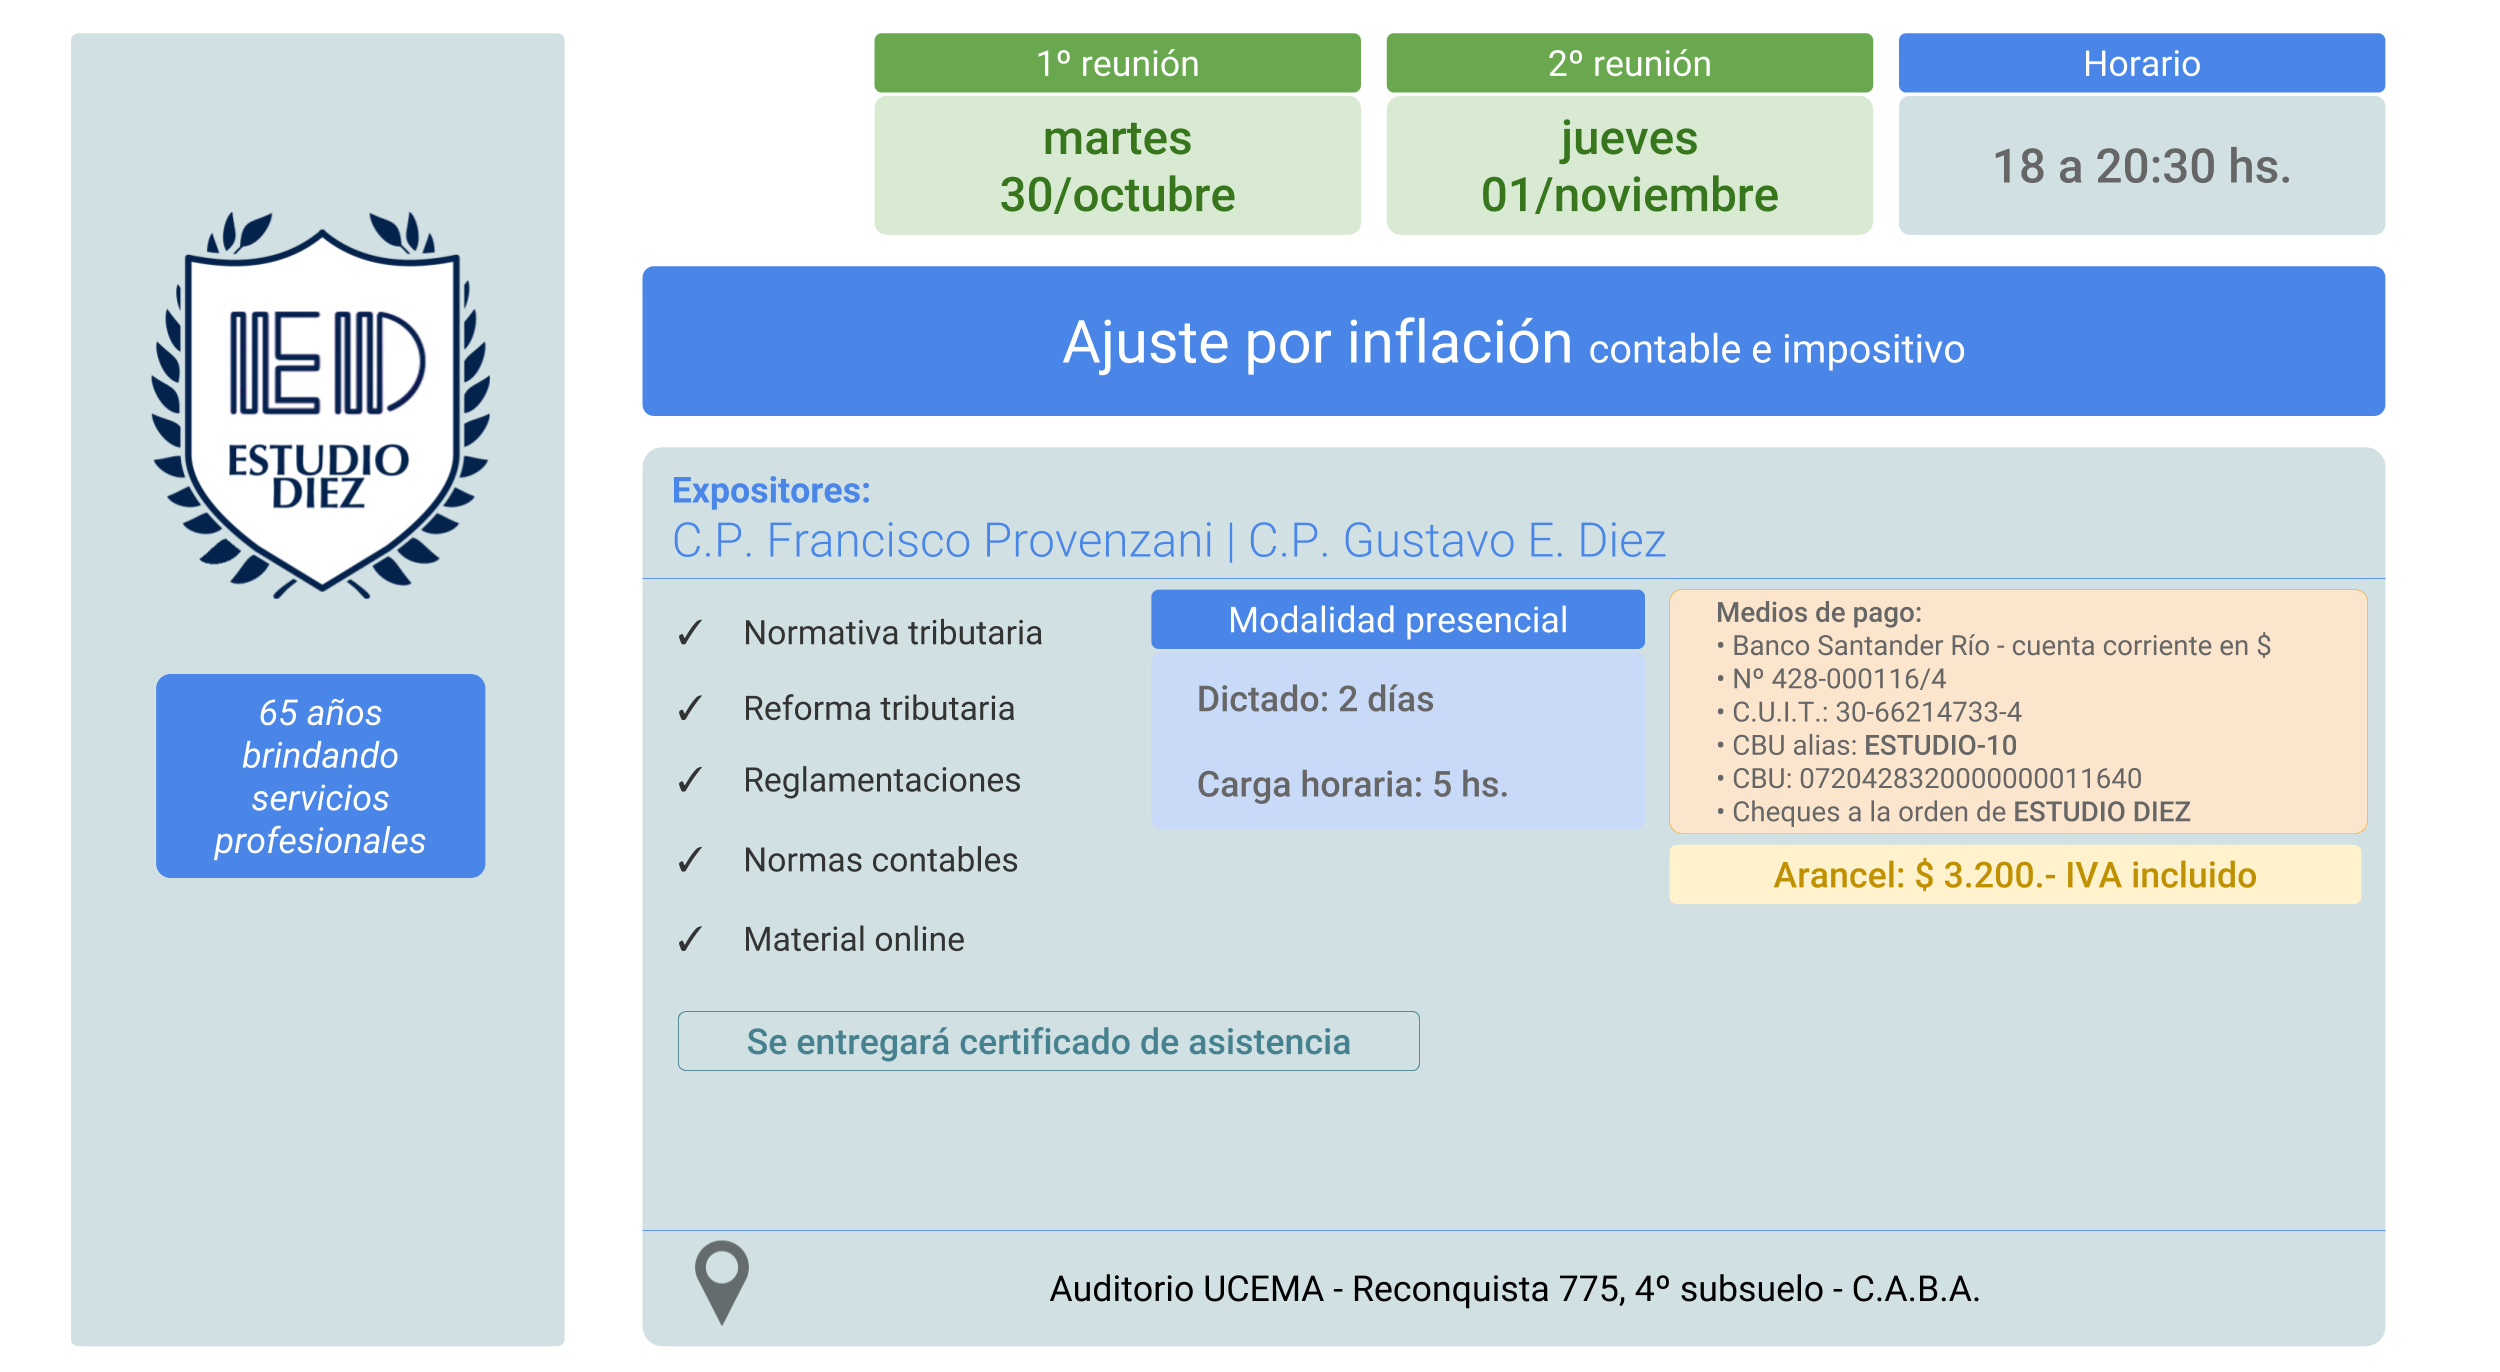
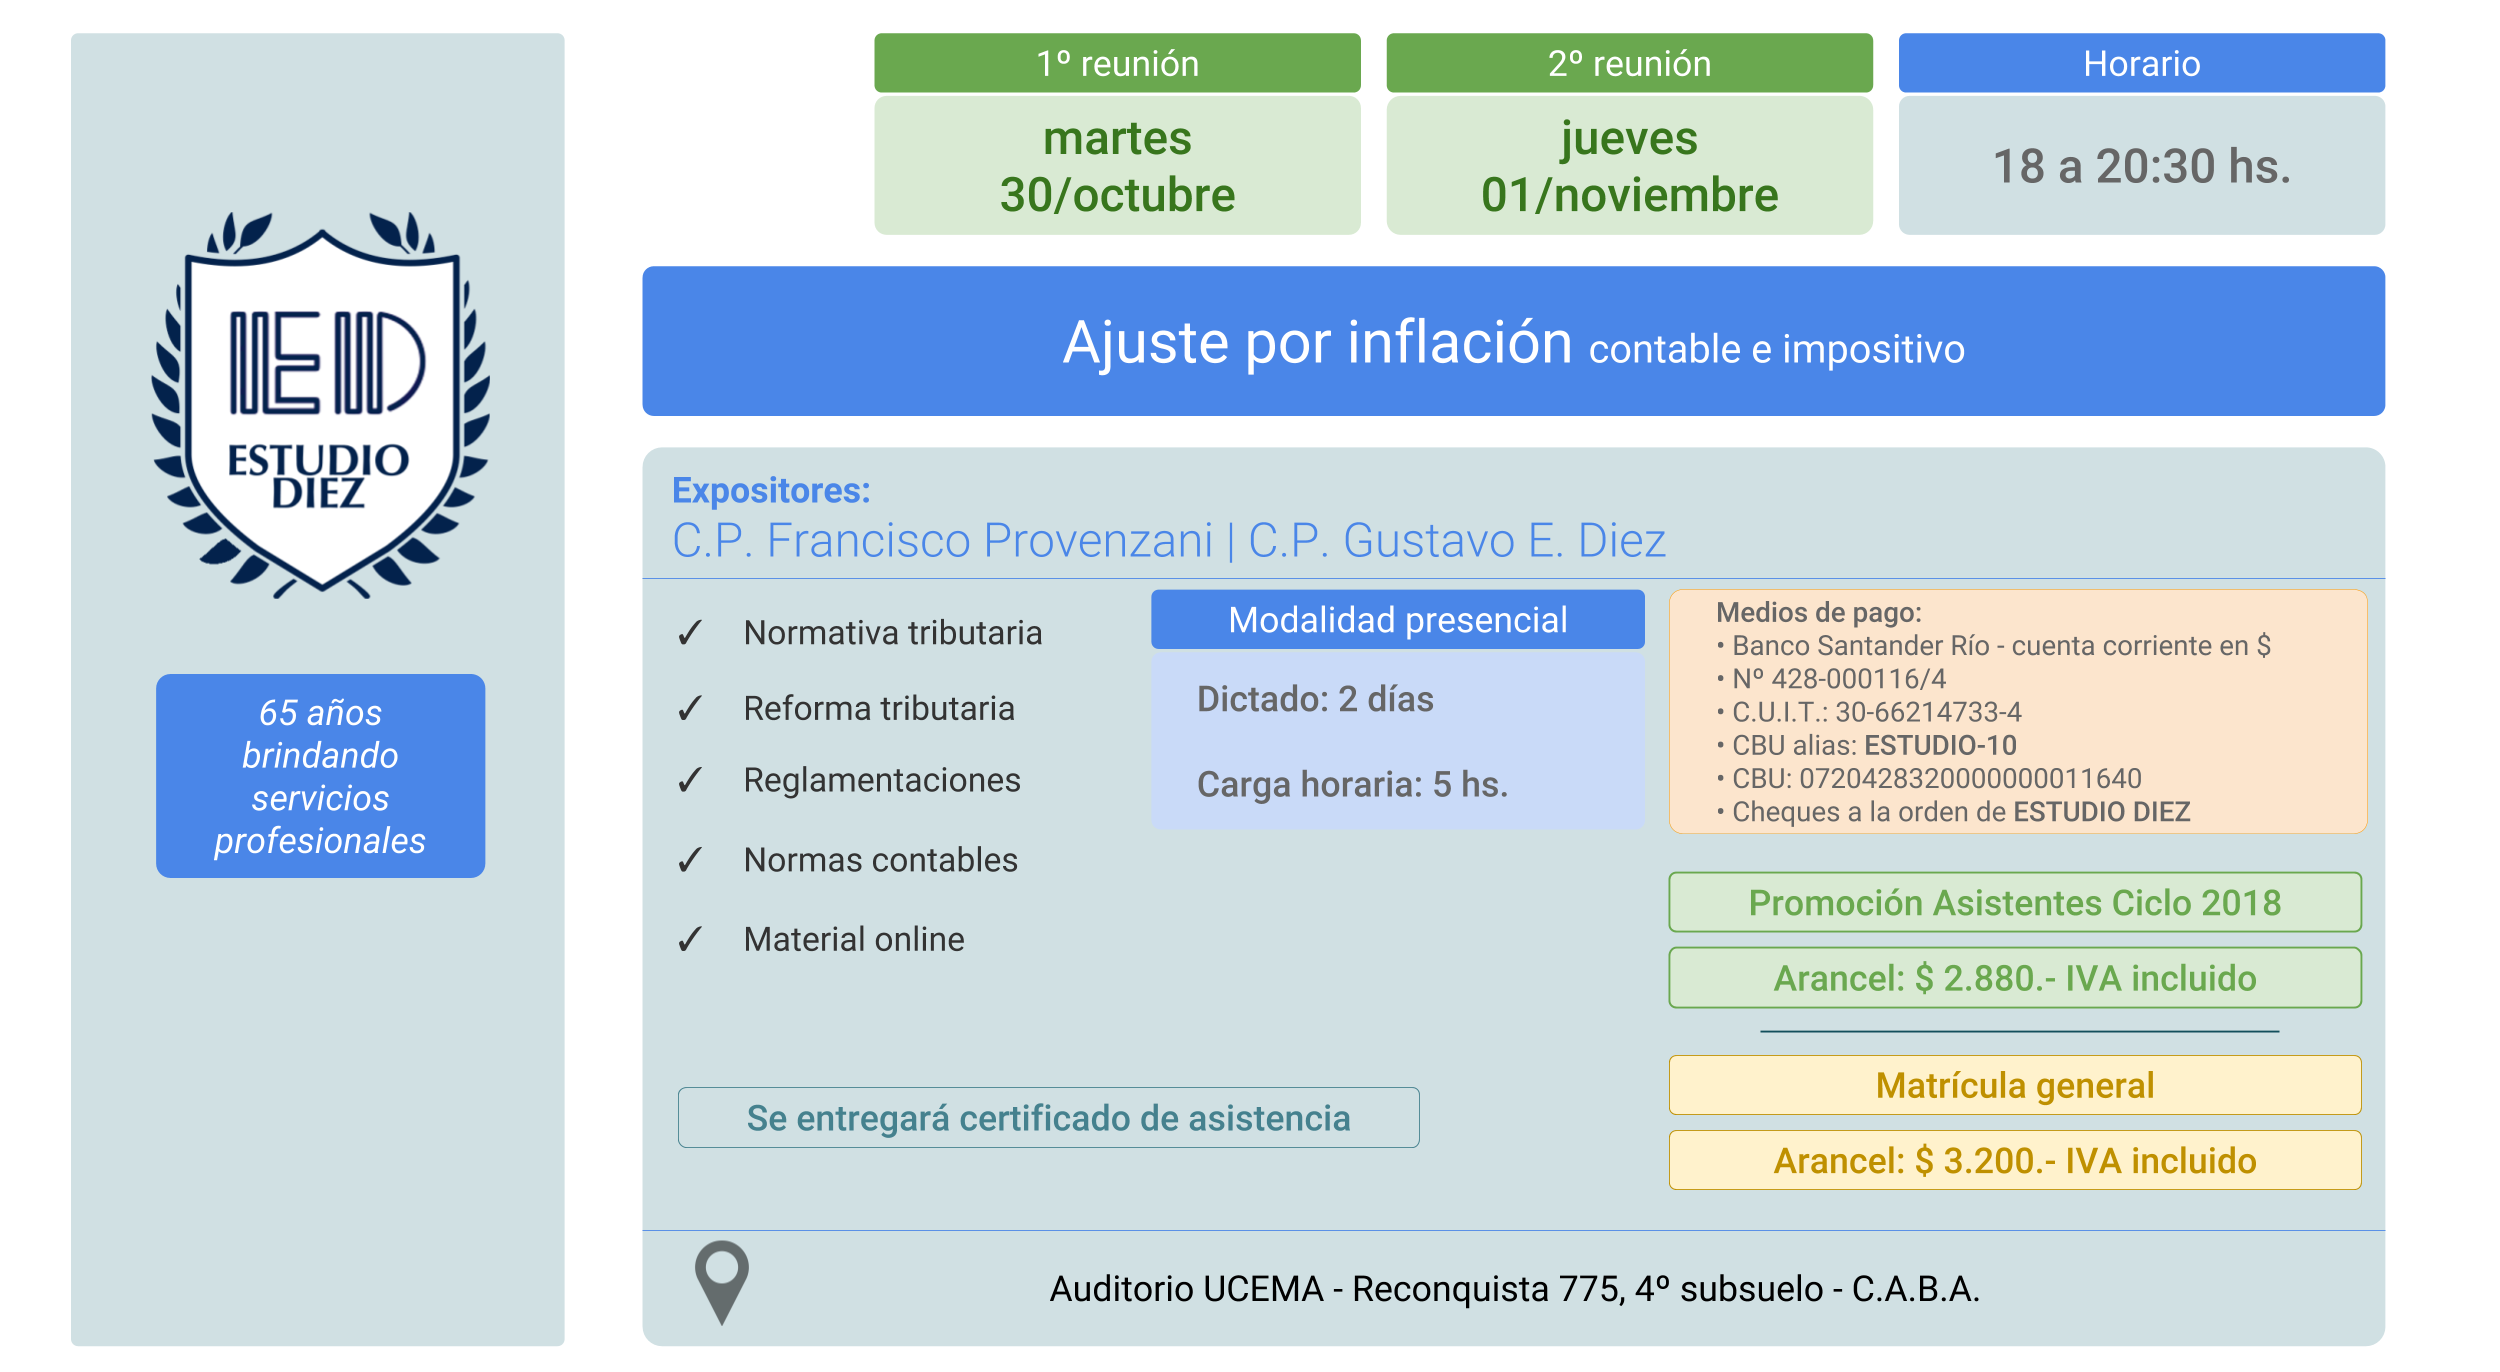
Add files via Github desktop

Changed region(s): [[0.6552, 0.7653, 0.9672, 0.8878], [0.6552, 0.6122, 0.9672, 0.7347], [0.2808, 0.7347, 0.5304, 0.8265]]

diff --git a/atencion-inspeccion.html b/atencion-inspeccion.html
@@ -180,28 +180,17 @@ La temática práctica abordará embargos, sanciones, régimen recursivo. En lo 
                 Modalidad presencial
             </div>
             <ul class="list-group">
-                          <li class="list-group-item list-group-item-info">Matrícula general</li>
-                          <li class="list-group-item">$ 2.420.- (IVA incluido)</li>
-                        </ul>
-            <hr>
-            <ul class="list-group">
               <li class="list-group-item list-group-item-success">Matrícula Promoción Asistentes Ciclo de Actualización Tributaria 2018<br>
                 <hr>
                   <small>Si sos asistente del Ciclo de Actualización Tributaria 2018, tenés la promoción</small>
               </li>
-              <li class="list-group-item"><i class="fa fa-check fa-fw" aria-hidden="true"></i> Promoción: $ 2.178.- (IVA incluido)
+              <li class="list-group-item"><i class="fa fa-check fa-fw" aria-hidden="true"></i> Promoción: $ 2.180.- (IVA incluido)
               </li>
             </ul>
             <hr>
             <ul class="list-group">
-              <li class="list-group-item list-group-item-warning">Matrícula Promoción inscripción al Seminario de Atención de una inspección<br>
-                <hr>
-                  <small>Si te inscribís también en el Seminario de Ajuste por inflación, tenés la promoción</small>
-              </li>
-              <li class="list-group-item"><i class="fa fa-check fa-fw" aria-hidden="true"></i> Promoción: $ 2.178.- (IVA incluido)
-                <hr>
-                <p class="text-center"><a href="ajuste-inflacion.html" class="card-link text-primary">Accedé al «Seminario de Ajuste por inflación contable e impositivo»</a></p>
-              </li>
+              <li class="list-group-item list-group-item-info">Matrícula general</li>
+              <li class="list-group-item">$ 2.420.- (IVA incluido)</li>
             </ul>
             <hr>
             <div class="alert alert-secondary" role="alert">

diff --git a/ajuste-inflacion.html b/ajuste-inflacion.html
@@ -181,12 +181,6 @@ La temática abordará la interpretación y aplicación práctica del ajuste por
                 Modalidad presencial
             </div>
             <ul class="list-group">
-              <li class="list-group-item list-group-item-info">Matrícula general</li>
-              <li class="list-group-item">$ 3.200.- (IVA incluido)</li>
-            </ul>
-            <hr>
-
-            <ul class="list-group">
               <li class="list-group-item list-group-item-success">Matrícula Promoción Asistentes Ciclo de Actualización Tributaria 2018<br>
                 <hr>
                   <small>Si sos asistente del Ciclo de Actualización Tributaria 2018, tenés la promoción</small>
@@ -194,16 +188,10 @@ La temática abordará la interpretación y aplicación práctica del ajuste por
               <li class="list-group-item"><i class="fa fa-check fa-fw" aria-hidden="true"></i> Promoción: $ 2.880.- (IVA incluido)
               </li>
             </ul>
-            <hr>
+            <hr>            
             <ul class="list-group">
-              <li class="list-group-item list-group-item-warning">Matrícula Promoción inscripción al Seminario de Atención de una inspección<br>
-                <hr>
-                  <small>Si te inscribís también en el Seminario de Atención de una inspección, tenés la promoción</small>
-              </li>
-              <li class="list-group-item"><i class="fa fa-check fa-fw" aria-hidden="true"></i> Promoción: $ 2.880.- (IVA incluido)
-                <hr>
-                <p class="text-center"><a href="atencion-inspeccion.html" class="card-link text-primary">Accedé al «Seminario de Atención de una inspección impositiva y previsional»</a></p>
-              </li>
+              <li class="list-group-item list-group-item-info">Matrícula general</li>
+              <li class="list-group-item">$ 3.200.- (IVA incluido)</li>
             </ul>
             <hr>
             <div class="alert alert-secondary" role="alert">
